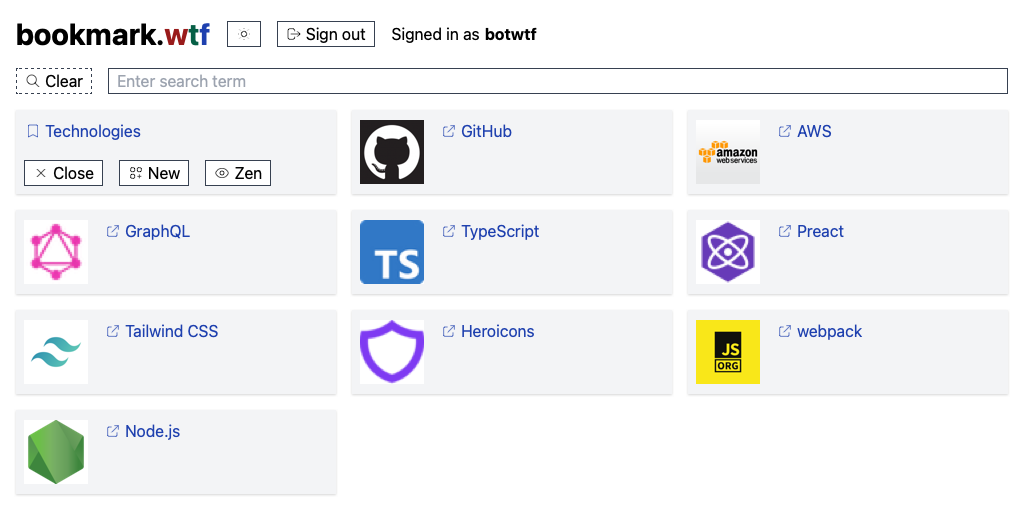
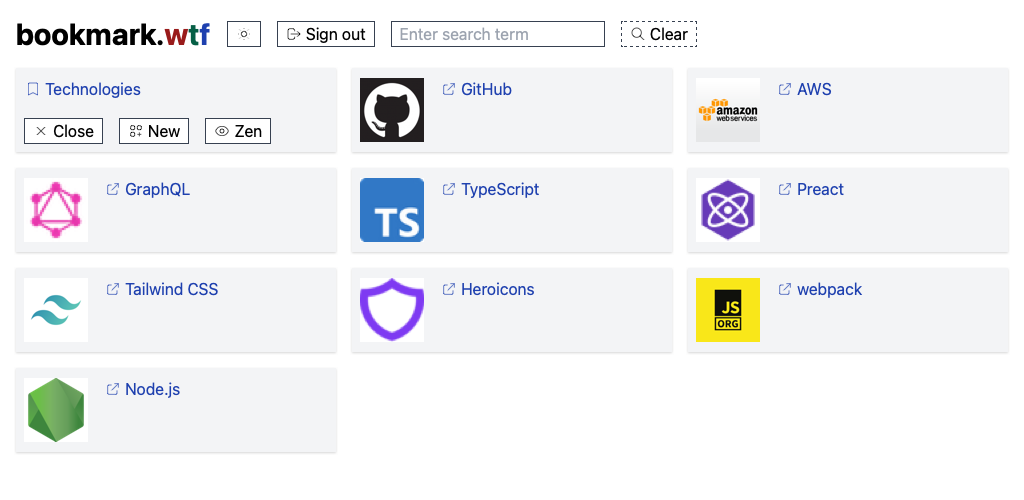
Revision of the topbar component

diff --git a/src/components/home-page.tsx b/src/components/home-page.tsx
@@ -8,6 +8,8 @@ import {UIModeContext} from '../hooks/use-ui-mode';
 import {Colors} from '../utils/colors';
 import {join} from '../utils/join';
 import {Button} from './button';
+import {ColorSchemeButton} from './color-scheme-button';
+import {Headline} from './headline';
 import {Icon} from './icon';
 import {Link} from './link';
 import {Page} from './page';
@@ -26,26 +28,29 @@ export function HomePage({authStore}: HomePageProps): JSX.Element {
     <Page>
       <Topbar>
         <TopbarItem>
+          <Headline />
+        </TopbarItem>
+
+        <TopbarItem>
+          <ColorSchemeButton />
+
           <Button disabled={!authStore.signIn} onClick={authStore.signIn}>
             <Icon type="login" />
             Sign in with GitHub
           </Button>
         </TopbarItem>
-
-        <TopbarItem>
-          <Link
-            url="https://github.com/clebert/bookmark.wtf/blob/main/README.md"
-            static
-          >
-            <Icon type="externalLink" />
-            README
-          </Link>
-        </TopbarItem>
       </Topbar>
 
       <Paragraph>
         A free and open-source bookmark manager that uses GitHub Gist as
-        database.
+        database.{' '}
+        <Link
+          url="https://github.com/clebert/bookmark.wtf/blob/main/README.md"
+          static
+        >
+          <Icon type="externalLink" />
+          README
+        </Link>
       </Paragraph>
 
       <div class={join(['max-w-5xl p-1 shadow', Colors.highlightRing()])}>

diff --git a/src/components/user-topbar.tsx b/src/components/user-topbar.tsx
@@ -1,35 +1,41 @@
-import {ReceivingReceiver, SuccessfulReceiver} from 'loxia';
 import {JSX, h} from 'preact';
 import {AuthorizedAuthStore} from '../hooks/use-auth-store';
+import {useGistName} from '../hooks/use-gist-name';
 import {Button} from './button';
+import {ColorSchemeButton} from './color-scheme-button';
+import {Headline} from './headline';
 import {Icon} from './icon';
-import {Label} from './label';
+import {SearchForm} from './search-form';
 import {Topbar} from './topbar';
 import {TopbarItem} from './topbar-item';
 
 export interface UserTopbarProps {
   readonly authStore: AuthorizedAuthStore;
-  readonly userReceiver: SuccessfulReceiver<string> | ReceivingReceiver;
 }
 
-export function UserTopbar({
-  authStore,
-  userReceiver,
-}: UserTopbarProps): JSX.Element {
+export function UserTopbar({authStore}: UserTopbarProps): JSX.Element {
+  const gistName = useGistName();
+
   return (
     <Topbar>
       <TopbarItem>
+        <Headline />
+      </TopbarItem>
+
+      <TopbarItem>
+        <ColorSchemeButton />
+
         <Button onClick={authStore.signOut}>
           <Icon type="logout" />
           Sign out
         </Button>
-
-        {userReceiver.state === 'successful' && (
-          <Label static>
-            Signed in as <Label bold>{userReceiver.value}</Label>
-          </Label>
-        )}
       </TopbarItem>
+
+      {gistName && (
+        <TopbarItem>
+          <SearchForm />
+        </TopbarItem>
+      )}
     </Topbar>
   );
 }

diff --git a/src/components/user-page.tsx b/src/components/user-page.tsx
@@ -1,11 +1,10 @@
-import {Fragment, JSX, h} from 'preact';
+import {JSX, h} from 'preact';
 import {AuthorizedAuthStore} from '../hooks/use-auth-store';
 import {useGistName} from '../hooks/use-gist-name';
 import {useUserReceiver} from '../hooks/use-user-receiver';
 import {BookmarkList} from './bookmark-list';
 import {CollectionList} from './collection-list';
 import {Page} from './page';
-import {SearchForm} from './search-form';
 import {UserTopbar} from './user-topbar';
 
 export interface UserPageProps {
@@ -23,20 +22,16 @@ export function UserPage({authStore}: UserPageProps): JSX.Element {
 
   return (
     <Page>
-      <UserTopbar authStore={authStore} userReceiver={userReceiver} />
+      <UserTopbar authStore={authStore} />
 
       {gistName ? (
-        <>
-          <SearchForm />
-
-          {userReceiver.state === 'successful' && (
-            <BookmarkList
-              authStore={authStore}
-              userReceiver={userReceiver}
-              gistName={gistName}
-            />
-          )}
-        </>
+        userReceiver.state === 'successful' && (
+          <BookmarkList
+            authStore={authStore}
+            userReceiver={userReceiver}
+            gistName={gistName}
+          />
+        )
       ) : (
         <CollectionList authStore={authStore} />
       )}

diff --git a/src/components/icon.tsx b/src/components/icon.tsx
@@ -5,7 +5,7 @@ export interface IconProps {
   readonly type:
     | 'bookmark'
     | 'check'
-    | 'clock'
+    | 'cog'
     | 'duplicate'
     | 'externalLink'
     | 'eye'
@@ -42,8 +42,11 @@ export function Icon({type, standalone}: IconProps): JSX.Element {
 
         {type === 'check' && <path d="M5 13l4 4L19 7" />}
 
-        {type === 'clock' && (
-          <path d="M12 8v4l3 3m6-3a9 9 0 11-18 0 9 9 0 0118 0z" />
+        {type === 'cog' && (
+          <>
+            <path d="M10.325 4.317c.426-1.756 2.924-1.756 3.35 0a1.724 1.724 0 002.573 1.066c1.543-.94 3.31.826 2.37 2.37a1.724 1.724 0 001.065 2.572c1.756.426 1.756 2.924 0 3.35a1.724 1.724 0 00-1.066 2.573c.94 1.543-.826 3.31-2.37 2.37a1.724 1.724 0 00-2.572 1.065c-.426 1.756-2.924 1.756-3.35 0a1.724 1.724 0 00-2.573-1.066c-1.543.94-3.31-.826-2.37-2.37a1.724 1.724 0 00-1.065-2.572c-1.756-.426-1.756-2.924 0-3.35a1.724 1.724 0 001.066-2.573c-.94-1.543.826-3.31 2.37-2.37.996.608 2.296.07 2.572-1.065z" />
+            <path d="M15 12a3 3 0 11-6 0 3 3 0 016 0z" />
+          </>
         )}
 
         {type === 'duplicate' && (

diff --git a/src/components/topbar.tsx b/src/components/topbar.tsx
@@ -1,8 +1,5 @@
 import {ComponentChildren, JSX, h} from 'preact';
-import {Colors} from '../utils/colors';
 import {join} from '../utils/join';
-import {ColorSchemeButton} from './color-scheme-button';
-import {TopbarItem} from './topbar-item';
 
 export interface TopbarProps {
   readonly children?: ComponentChildren;
@@ -21,25 +18,6 @@ export function Topbar({children}: TopbarProps): JSX.Element {
         'md:space-x-4',
       ])}
     >
-      <TopbarItem>
-        <h1
-          class={join([
-            'text-3xl',
-            'font-bold',
-            'whitespace-nowrap',
-            'cursor-default',
-            'select-none',
-          ])}
-        >
-          <span class={Colors.text()}>bookmark.</span>
-          <span class={Colors.text('danger')}>w</span>
-          <span class={Colors.text('success')}>t</span>
-          <span class={Colors.text('link')}>f</span>
-        </h1>
-
-        <ColorSchemeButton />
-      </TopbarItem>
-
       {children}
     </div>
   );

diff --git a/src/components/error-page.tsx b/src/components/error-page.tsx
@@ -1,6 +1,8 @@
 import {JSX, h} from 'preact';
 import {useCallback} from 'preact/hooks';
 import {Button} from './button';
+import {ColorSchemeButton} from './color-scheme-button';
+import {Headline} from './headline';
 import {Icon} from './icon';
 import {Page} from './page';
 import {Paragraph} from './paragraph';
@@ -17,6 +19,12 @@ export function ErrorPage(): JSX.Element {
     <Page>
       <Topbar>
         <TopbarItem>
+          <Headline />
+        </TopbarItem>
+
+        <TopbarItem>
+          <ColorSchemeButton />
+
           <Button onClick={reload}>
             <Icon type="refresh" />
             Reload

diff --git a/src/components/search-form.tsx b/src/components/search-form.tsx
@@ -20,18 +20,18 @@ export function SearchForm(): JSX.Element {
   }, []);
 
   return (
-    <div class="flex space-x-4">
-      <Button disabled={!searchTerm.value} onClick={clearSearch}>
-        <Icon type="search" />
-        Clear
-      </Button>
-
+    <div class="flex space-x-4 max-w-xs">
       <Input
         value={searchTerm.value}
         placeholder="Enter search term"
         autoFocus
         onInput={search}
       />
+
+      <Button disabled={!searchTerm.value} onClick={clearSearch}>
+        <Icon type="search" />
+        Clear
+      </Button>
     </div>
   );
 }

diff --git a/src/components/headline.tsx b/src/components/headline.tsx
@@ -1,0 +1,22 @@
+import {JSX, h} from 'preact';
+import {Colors} from '../utils/colors';
+import {join} from '../utils/join';
+
+export function Headline(): JSX.Element {
+  return (
+    <h1
+      class={join([
+        'text-3xl',
+        'font-bold',
+        'whitespace-nowrap',
+        'cursor-default',
+        'select-none',
+      ])}
+    >
+      <span class={Colors.text()}>bookmark.</span>
+      <span class={Colors.text('danger')}>w</span>
+      <span class={Colors.text('success')}>t</span>
+      <span class={Colors.text('link')}>f</span>
+    </h1>
+  );
+}

diff --git a/src/components/color-scheme-button.tsx b/src/components/color-scheme-button.tsx
@@ -12,7 +12,7 @@ export function ColorSchemeButton(): JSX.Element {
       <Icon
         type={
           colorSchemeSelection === 'auto'
-            ? 'clock'
+            ? 'cog'
             : colorSchemeSelection === 'light'
             ? 'sun'
             : 'moon'

diff --git a/src/itests/app.ts b/src/itests/app.ts
@@ -41,6 +41,6 @@ export class App {
     );
 
     await this.page.click('.btn-primary:has-text("Verify")');
-    await this.page.waitForSelector(`"Signed in as ${this.#login}"`);
+    await this.page.waitForSelector('button:has-text("Sign out")');
   }
 }
